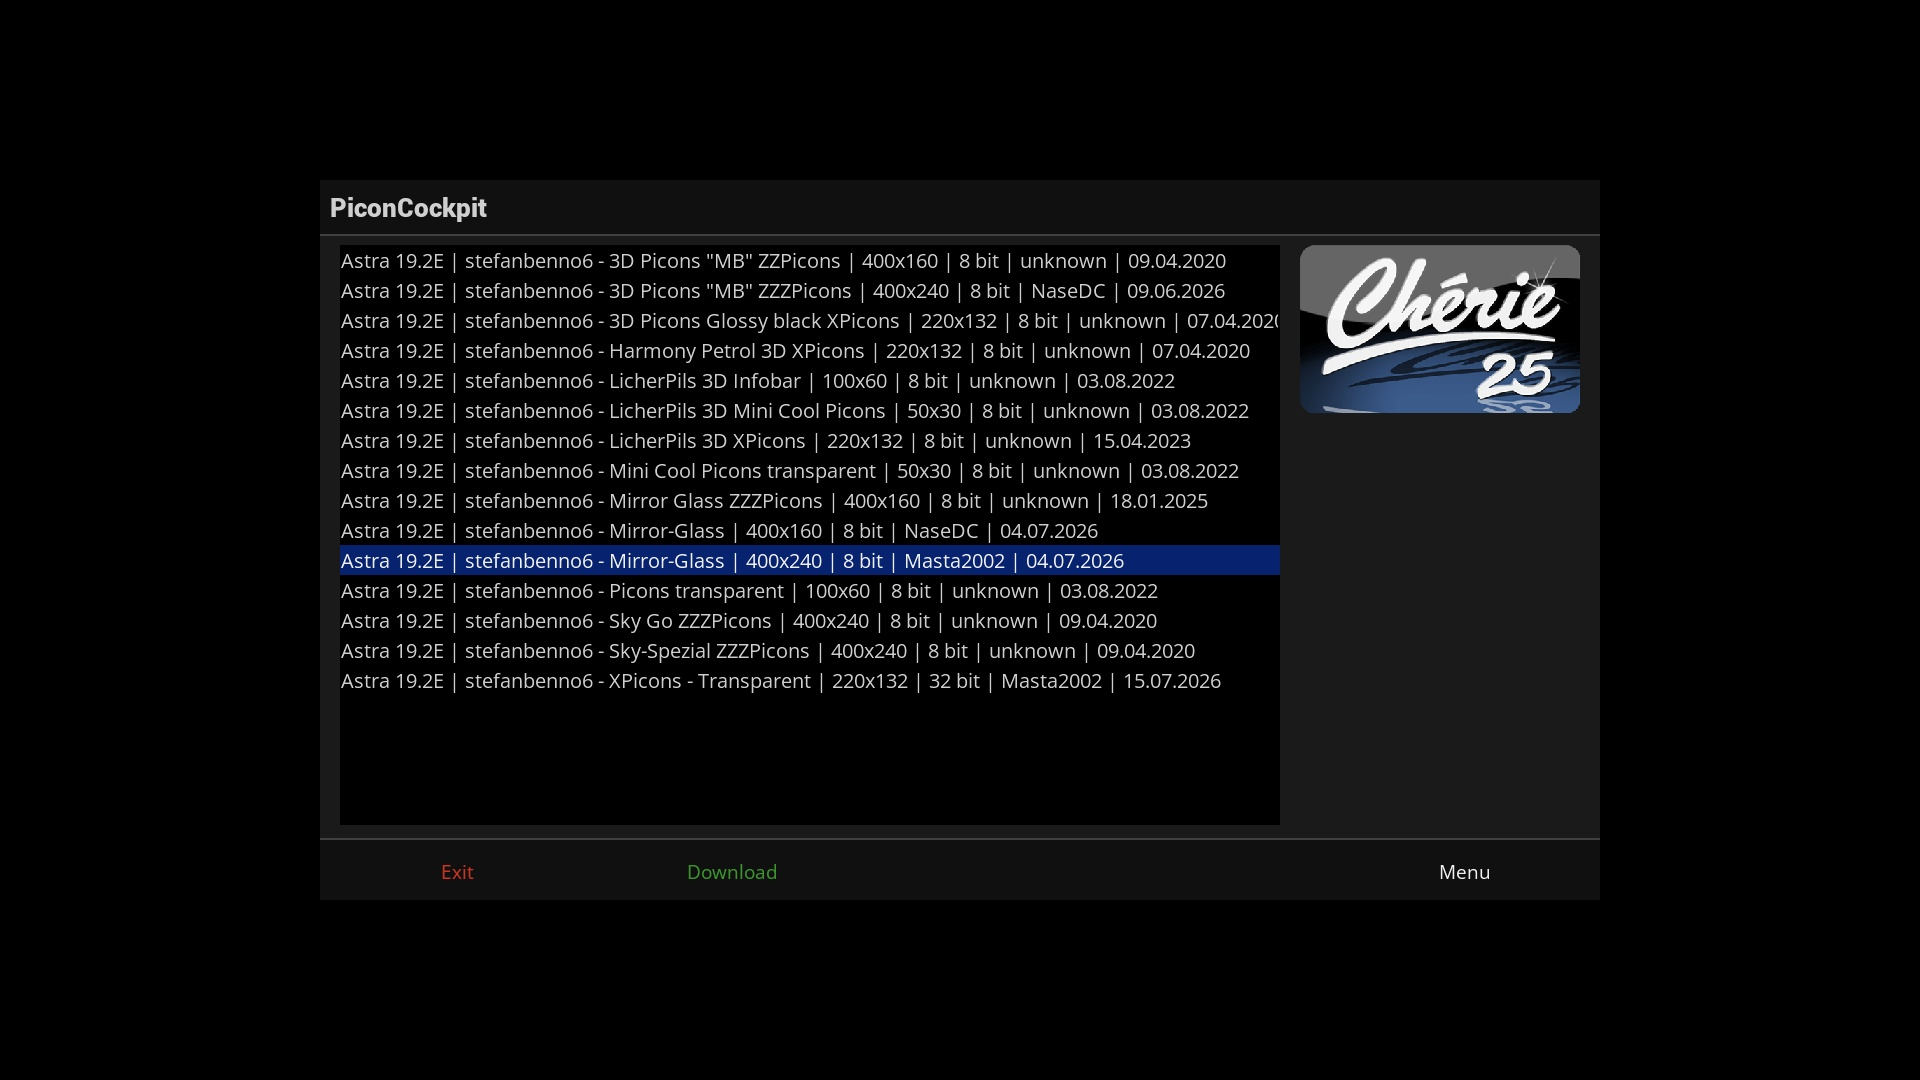
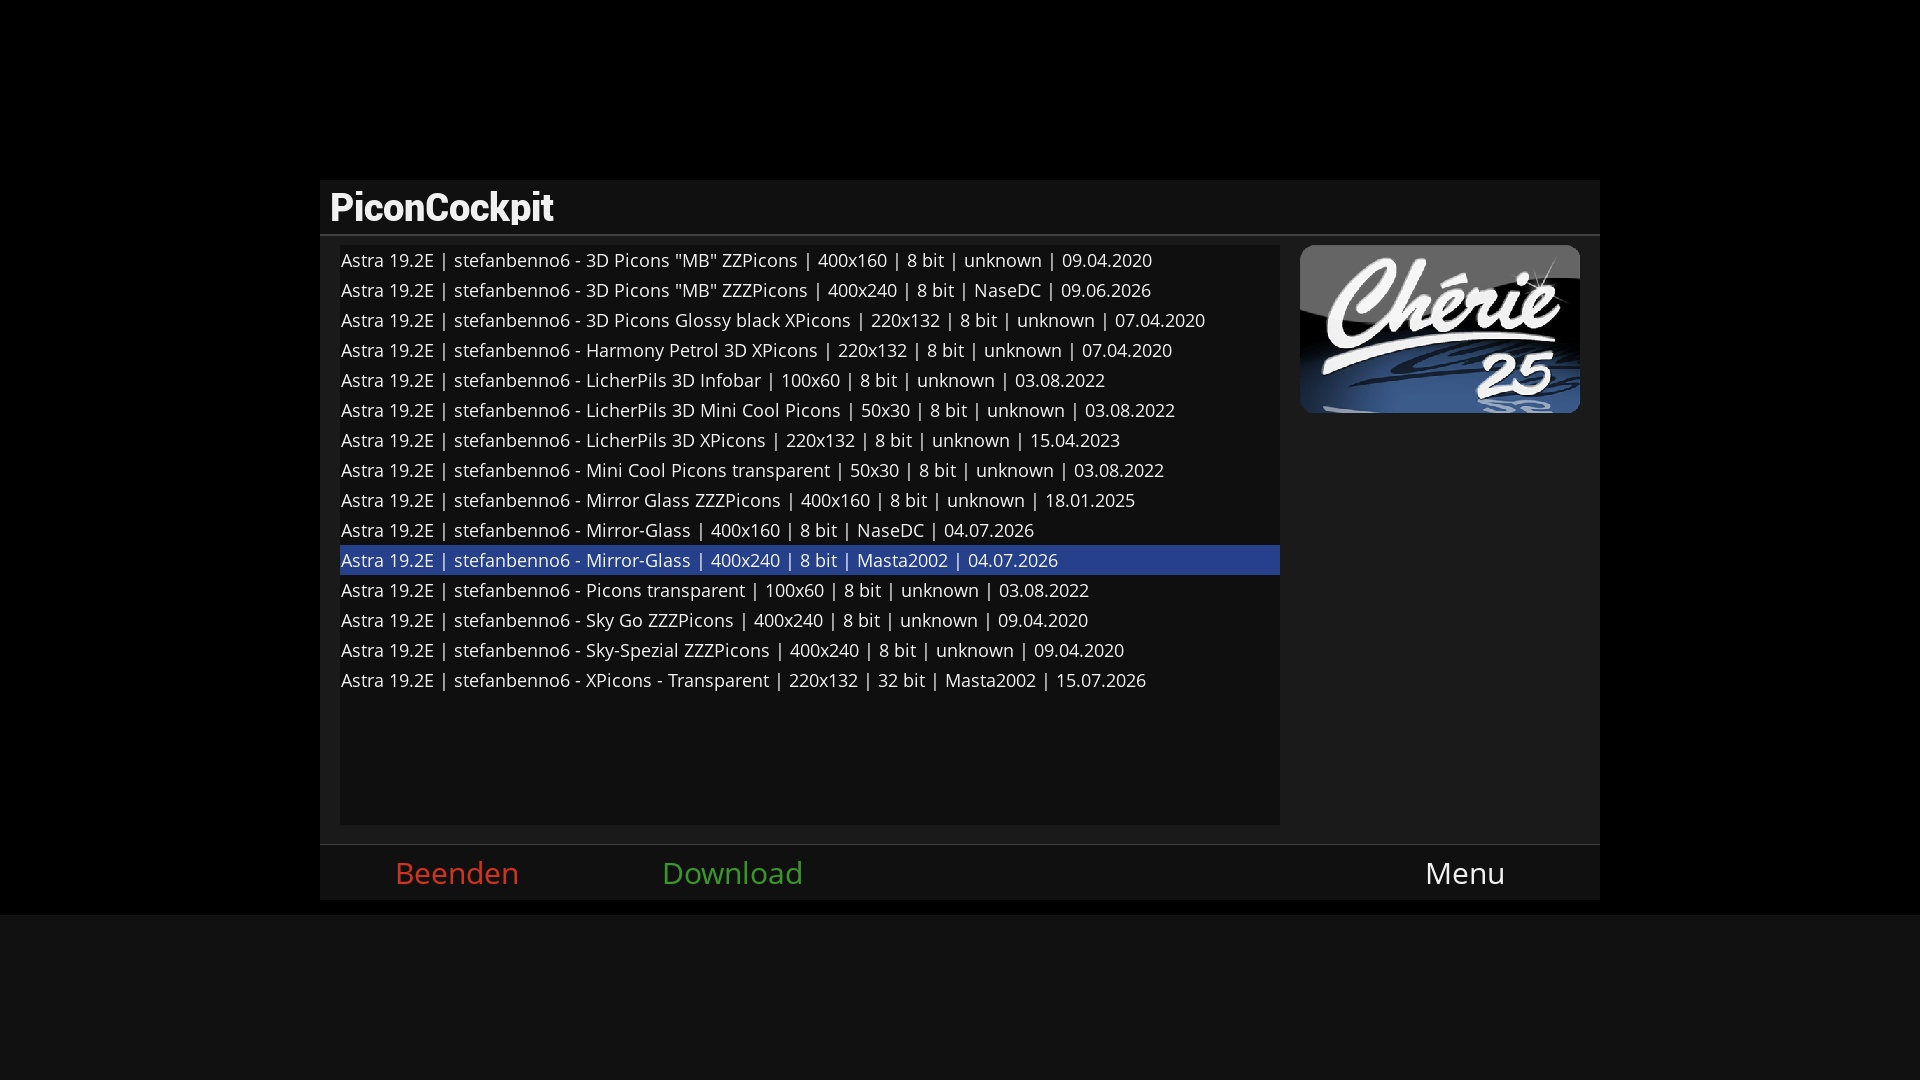
0.7.3

diff --git a/src/ConfigInit.py b/src/ConfigInit.py
@@ -15,47 +15,46 @@ def _make_choices(items):
     return [("all", "all")] + [(x, x) for x in sorted(set(items)) if x != "all"]
 
 
-class ConfigInit():
+def _cachedChoices(cache_attr, default_choices):
+    cached_val = getattr(config.plugins.piconcockpit, cache_attr).value
+    if cached_val and cached_val != "all":
+        return _make_choices(cached_val.split(','))
+    return default_choices
 
-    def __init__(self):
-        """Initialize configuration with default values"""
-        config.plugins.piconcockpit = ConfigSubsection()
-        config.plugins.piconcockpit.fake_entry = NoSave(ConfigNothing())
 
-        # Server and directory settings
-        config.plugins.piconcockpit.picon_server = ConfigSelection(
-            default=server_choices[0][0], choices=server_choices)
-        config.plugins.piconcockpit.picon_directory = ConfigText(
-            default="/usr/share/enigma2/picon", fixed_size=False, visible_width=50)
+# Initialize configuration with default values
+if not hasattr(config.plugins, "piconcockpit"):
+    config.plugins.piconcockpit = ConfigSubsection()
+config.plugins.piconcockpit.fake_entry = NoSave(ConfigNothing())
 
-        # Download behavior settings
-        config.plugins.piconcockpit.all_picons = ConfigYesNo(default=False)
-        config.plugins.piconcockpit.delete_before_download = ConfigYesNo(default=False)
-        config.plugins.piconcockpit.last_picon_set = ConfigText(
-            default="", fixed_size=False, visible_width=20)
+# Server and directory settings
+config.plugins.piconcockpit.picon_server = ConfigSelection(
+    default=server_choices[0][0], choices=server_choices)
+config.plugins.piconcockpit.picon_directory = ConfigText(
+    default="/usr/share/enigma2/picon", fixed_size=False, visible_width=50)
 
-        # Filter choice lists storage (persistent) - must exist before the
-        # selections below so their choices can be rebuilt from cache
-        # immediately, instead of starting narrow and widening afterwards.
-        config.plugins.piconcockpit.cached_sizes = ConfigText(default="all", fixed_size=False, visible_width=100)
-        config.plugins.piconcockpit.cached_bits = ConfigText(default="all", fixed_size=False, visible_width=100)
-        config.plugins.piconcockpit.cached_creators = ConfigText(default="all", fixed_size=False, visible_width=100)
-        config.plugins.piconcockpit.cached_satellites = ConfigText(default="all", fixed_size=False, visible_width=100)
+# Download behavior settings
+config.plugins.piconcockpit.all_picons = ConfigYesNo(default=False)
+config.plugins.piconcockpit.delete_before_download = ConfigYesNo(default=False)
+config.plugins.piconcockpit.last_picon_set = ConfigText(
+    default="", fixed_size=False, visible_width=20)
 
-        # Filter selections, choices rebuilt from cache when available
-        select_all = [("all", "all")]
-        config.plugins.piconcockpit.size = ConfigSelection(default="all", choices=self._cachedChoices('cached_sizes', select_all))
-        config.plugins.piconcockpit.bit = ConfigSelection(default="all", choices=self._cachedChoices('cached_bits', select_all))
-        config.plugins.piconcockpit.creator = ConfigSelection(default="all", choices=self._cachedChoices('cached_creators', select_all))
-        config.plugins.piconcockpit.satellite = ConfigSelection(default="all", choices=self._cachedChoices('cached_satellites', select_all))
+# Filter choice lists storage (persistent) - must exist before the
+# selections below so their choices can be rebuilt from cache
+# immediately, instead of starting narrow and widening afterwards.
+config.plugins.piconcockpit.cached_sizes = ConfigText(default="all", fixed_size=False, visible_width=100)
+config.plugins.piconcockpit.cached_bits = ConfigText(default="all", fixed_size=False, visible_width=100)
+config.plugins.piconcockpit.cached_creators = ConfigText(default="all", fixed_size=False, visible_width=100)
+config.plugins.piconcockpit.cached_satellites = ConfigText(default="all", fixed_size=False, visible_width=100)
 
-        logger.debug("Configuration initialized")
+# Filter selections, choices rebuilt from cache when available
+select_all = [("all", "all")]
+config.plugins.piconcockpit.size = ConfigSelection(default="all", choices=_cachedChoices('cached_sizes', select_all))
+config.plugins.piconcockpit.bit = ConfigSelection(default="all", choices=_cachedChoices('cached_bits', select_all))
+config.plugins.piconcockpit.creator = ConfigSelection(default="all", choices=_cachedChoices('cached_creators', select_all))
+config.plugins.piconcockpit.satellite = ConfigSelection(default="all", choices=_cachedChoices('cached_satellites', select_all))
 
-    def _cachedChoices(self, cache_attr, default_choices):
-        cached_val = getattr(config.plugins.piconcockpit, cache_attr).value
-        if cached_val and cached_val != "all":
-            return _make_choices(cached_val.split(','))
-        return default_choices
+logger.debug("Configuration initialized")
 
 
 def updateFilterChoices(size_list, bit_list, creator_list, satellite_list):

diff --git a/src/ScreenSummaryFix.py b/src/ScreenSummaryFix.py
@@ -1,0 +1,50 @@
+# Copyright (C) 2018-2026 by xcentaurix
+# License: GNU General Public License v3.0
+
+
+from enigma import eWindow
+from Screens.Screen import Screen
+from skin import applyAllAttributes
+
+
+# Screen.applySkin() always derives its scale/resolution reference from
+# getDesktop(GUI_SKIN_ID) (the 1920x1080 GUI desktop), even for a screen
+# bound to a different desktop (e.g. the LCD summary desktop) via
+# setDesktop(). Since self.desktop is already the correct desktop by the
+# time applySkin() runs (Session.doInstantiateDialog() calls setDesktop()
+# right before applySkin()), using it here instead of the hardcoded GUI
+# desktop fixes both widget position/size AND font-size scaling for LCD
+# Summary screens - without it, a resolution= override in skin.xml can only
+# ever fix one of the two at the expense of the other, since the (wrong)
+# GUI-based bounds still feeds the font-size scale factor.
+#
+# This is a drop-in replacement for the original method: for a normal GUI
+# screen self.desktop.size() equals getDesktop(GUI_SKIN_ID).size() anyway
+# (they're opened against the GUI desktop), so patching it is a no-op there
+# and only changes behaviour for screens bound to a different desktop.
+def _applySkin(self):
+    bounds = (self.desktop.size().width(), self.desktop.size().height())
+    resolution = bounds
+    zPosition = 0
+    for (key, value) in self.skinAttributes:
+        if key in {"resolution", "baseResolution"}:
+            resolution = tuple(int(x.strip()) for x in value.split(","))
+        elif key == "zPosition":
+            zPosition = int(value)
+    if not self.instance:
+        self.instance = eWindow(self.desktop, zPosition)
+    if "title" not in self.skinAttributes and self.screenTitle:
+        self.skinAttributes.append(("title", self.screenTitle))
+    else:
+        for attribute in self.skinAttributes:
+            if attribute[0] == "title":
+                self.setTitle(_(attribute[1]))  # noqa: F821, pylint: disable=undefined-variable
+    self.scale = ((bounds[0], resolution[0]), (bounds[1], resolution[1]))
+    self.skinAttributes.sort(key=lambda a: {"position": 1}.get(a[0], 0))
+    applyAllAttributes(self.instance, self.desktop, self.skinAttributes, self.scale)
+    self.createGUIScreen(self.instance, self.desktop)
+
+
+def patchScreenApplySkin():
+    if Screen.applySkin is not _applySkin:
+        Screen.applySkin = _applySkin

diff --git a/src/plugin.py b/src/plugin.py
@@ -10,7 +10,7 @@ from .Version import VERSION
 from .Debug import logger
 from .__init__ import _
 from .PiconCockpit import PiconCockpit
-from .ConfigInit import ConfigInit
+from . import ConfigInit  # noqa: F401, pylint: disable=unused-import
 from .SkinUtils import loadPluginSkin
 
 
@@ -25,7 +25,6 @@ def openPiconCockpit(session, **__):
 
 def Plugins(**__):
     logger.info("  +++ Version: %s starts...", VERSION)
-    ConfigInit()
     return PluginDescriptor(
         name=_("PiconCockpit"),
         description=_("Manage Picons"),

diff --git a/src/SkinUtils.py b/src/SkinUtils.py
@@ -7,6 +7,7 @@ from pathlib import Path
 from Tools.Directories import SCOPE_SKIN
 from Components.config import config
 from skin import loadSkin
+from .ScreenSummaryFix import patchScreenApplySkin
 # from .Debug import logger
 
 
@@ -26,3 +27,4 @@ def getSkinPath(file_name):
 def loadPluginSkin(file_name="skin.xml"):
     skin_file = getSkinPath(file_name)
     loadSkin(skin_file, scope=SCOPE_SKIN)
+    patchScreenApplySkin()

diff --git a/src/Version.py b/src/Version.py
@@ -4,6 +4,6 @@
 
 ID = "PIC"
 PLUGIN = "PiconCockpit"
-VERSION = "0.6.1"
+VERSION = "0.7.3"
 COPYRIGHT = "2018-2026 by xcentaurix"
 LICENSE = "This program is free software: you can redistribute it and/or modify it under the terms of the GNU General Public License as published by the Free Software Foundation, either version 3 of the License, or (at your option) any later version."

diff --git a/README.md b/README.md
@@ -7,9 +7,14 @@
 ## Features
 PiconCockpit is a plugin for Open Enigma2 receivers that downloads picons from a picon server.
 
+## Disclaimer
+The project author is not responsible for how this software is used by others. It is not intended to be used for accessing or distributing copyrighted materials without authorization.
+Users are solely responsible for determining the legality of their actions.
+
+This repository has no control over the streams, links, or the legality of the content provided by the different hosts (including all mirror sites). It is the end user's responsibility to ensure the legal use of these streams, and we strongly recommend verifying that the content complies with all applicable laws, including copyright laws and regulations of your country's jurisdiction before use.
+
 ## Limitations
-- tested on OpenViX and OpenATV
-- tested on DM9xx only
+- Tested on OpenViX and OpenATV with DM900.
 
 ## Links
 - Installation: https://xcentaurix.github.io/PiconCockpit
